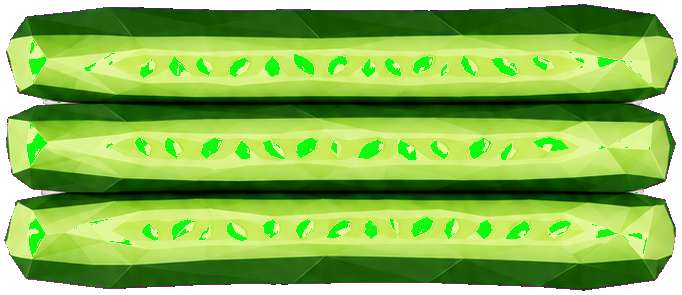
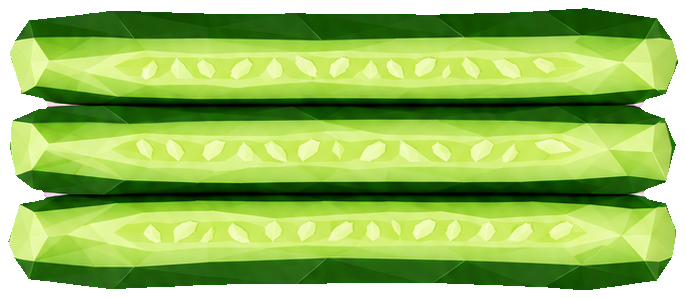
sheet strips: clean keyed tuna, salmon, cucumber

diff --git a/play/board.js b/play/board.js
@@ -47,7 +47,7 @@
   loadImg('maki', ASSET + 'assets/board/maki-target.png');
   loadImg('base', ASSET + 'assets/board/maki-base.png');
   ['salmon','cucumber','tuna'].forEach((k) => {
-    loadImg(k, ASSET + 'assets/board/' + k + '.png?v=3');
+    loadImg(k, ASSET + 'assets/board/' + k + '.png?v=4');
     loadImg('wedge-' + k, ASSET + 'assets/board/wedge-' + k + '.png');
   });
 

diff --git a/play/index.html b/play/index.html
@@ -7,4 +7,4 @@
   canvas{display:block;width:100%;height:100%;touch-action:none}
 </style>
 <canvas id="c"></canvas>
-<script src="board.js?v=34"></script>
+<script src="board.js?v=35"></script>
